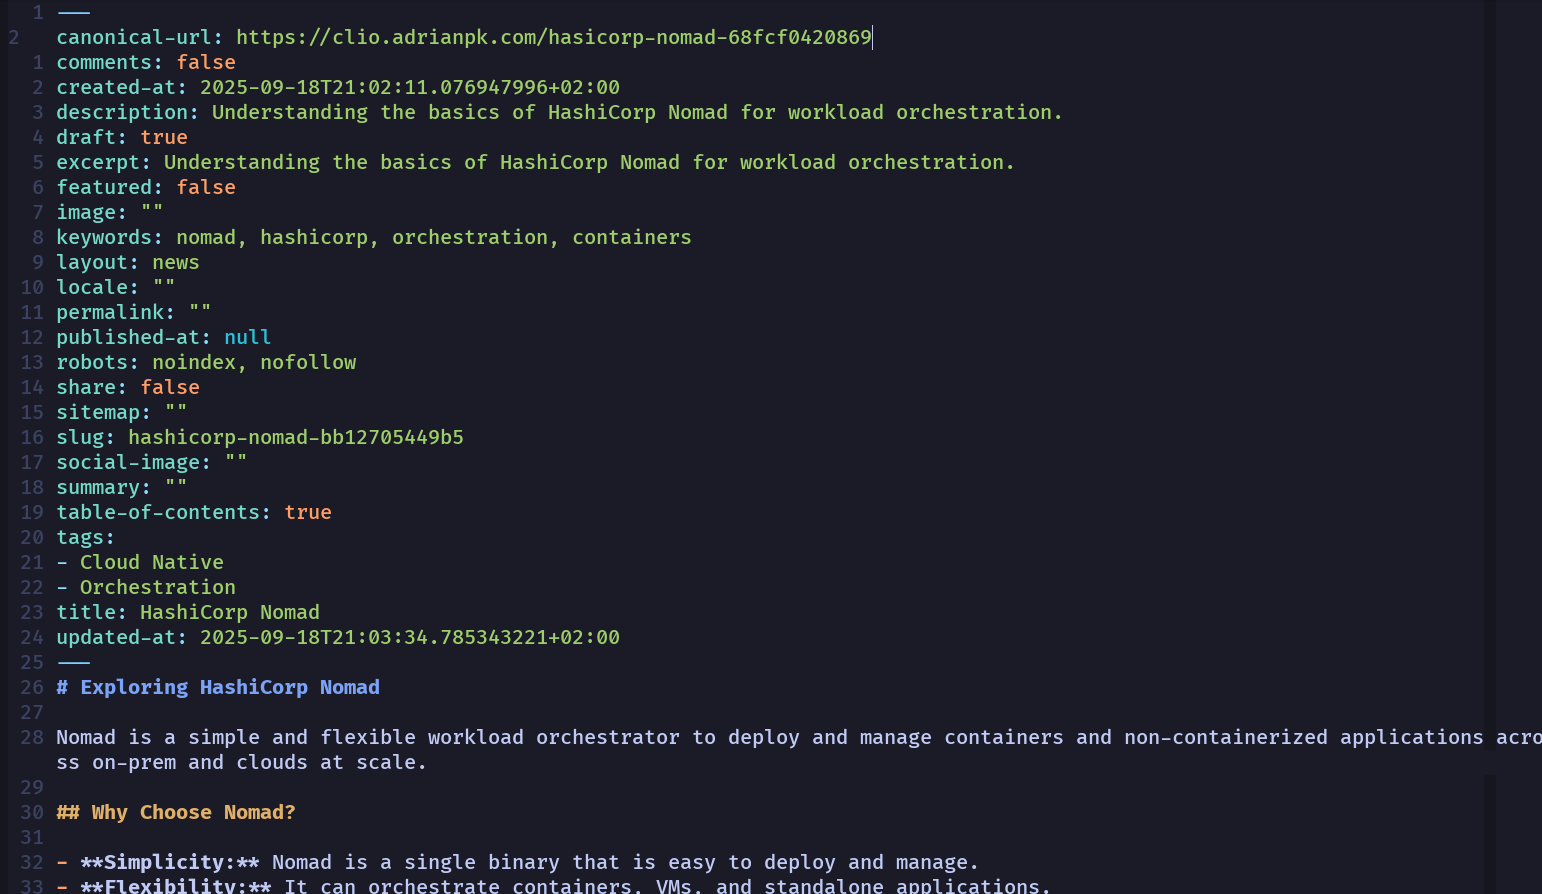
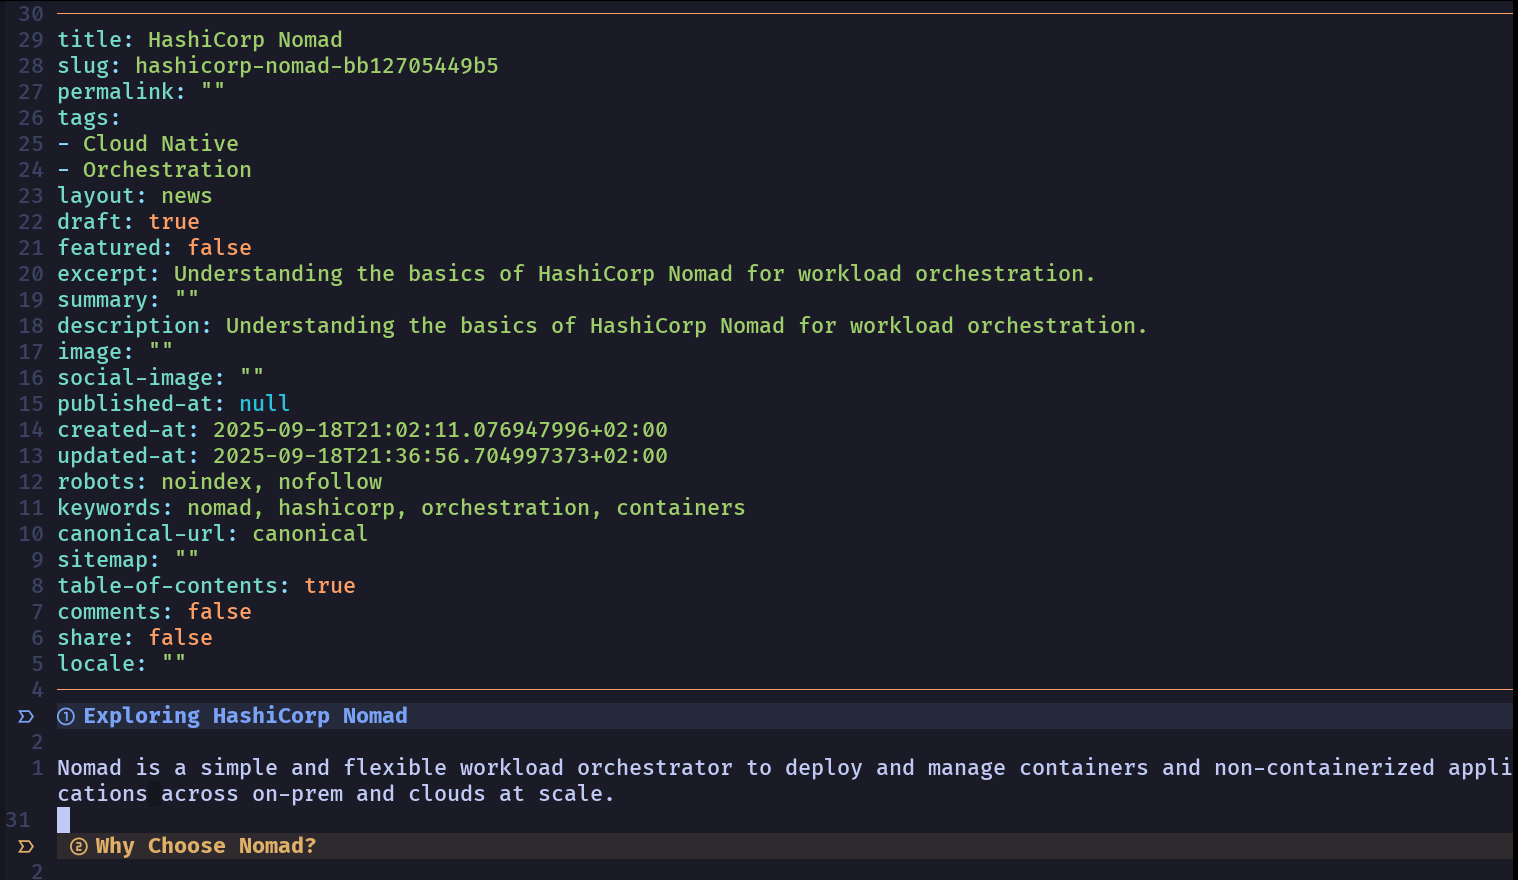
Order frontmatter fields

Changed region(s): [[0.0, 0.0, 1.0, 1.0], [0.2787, 0.5523, 0.4954, 0.583]]

diff --git a/internal/feat/ssg/generator.go b/internal/feat/ssg/generator.go
@@ -31,42 +31,12 @@ func (g *Generator) Generate(contents []Content) error {
 		fileName := content.Slug() + ".md"
 		filePath := filepath.Join(basePath, content.SectionPath, fileName)
 
-		// --- Frontmatter Generation ---
-		frontMatter := make(map[string]interface{})
+		// --- Frontmatter Generation (Ordered) ---
+		var frontMatter yaml.MapSlice
 
-		// Core Identity & Content
-		frontMatter["slug"] = content.Slug()
-		frontMatter["permalink"] = "" // TODO: Construct full permalink
-		frontMatter["excerpt"] = content.Meta.Description // Using description as a stand-in
-		frontMatter["summary"] = "" // TODO: Add a summary field if needed
-
-		// Presentation & Layout
-		frontMatter["image"] = "" // TODO: Add image field to a model
-		frontMatter["social-image"] = "" // TODO: Add social-image field
-		frontMatter["layout"] = content.SectionName // Assuming layout is related to section
-		frontMatter["table-of-contents"] = content.Meta.TableOfContents
-
-		// SEO & Discovery
-		frontMatter["title"] = content.Heading
-		frontMatter["description"] = content.Meta.Description
-		frontMatter["keywords"] = content.Meta.Keywords
-		frontMatter["robots"] = content.Meta.Robots
-		frontMatter["canonical-url"] = content.Meta.CanonicalURL
-		frontMatter["sitemap"] = content.Meta.Sitemap
-
-		// Features & Engagement
-		frontMatter["featured"] = content.Featured
-		frontMatter["share"] = content.Meta.Share
-		frontMatter["comments"] = content.Meta.Comments
-
-		// Localization
-		frontMatter["locale"] = "" // TODO: Add locale field
-
-		// Timestamps & Status
-		frontMatter["draft"] = content.Draft
-		frontMatter["published-at"] = content.PublishedAt
-		frontMatter["created-at"] = content.CreatedAt
-		frontMatter["updated-at"] = content.UpdatedAt
+		frontMatter = append(frontMatter, yaml.MapItem{Key: "title", Value: content.Heading})
+		frontMatter = append(frontMatter, yaml.MapItem{Key: "slug", Value: content.Slug()})
+		frontMatter = append(frontMatter, yaml.MapItem{Key: "permalink", Value: ""}) // TODO: Construct full permalink
 
 		// Taxonomy
 		var tags []string
@@ -74,8 +44,42 @@ func (g *Generator) Generate(contents []Content) error {
 			tags = append(tags, t.Name)
 		}
 		if len(tags) > 0 {
-			frontMatter["tags"] = tags
+			frontMatter = append(frontMatter, yaml.MapItem{Key: "tags", Value: tags})
 		}
+		frontMatter = append(frontMatter, yaml.MapItem{Key: "layout", Value: content.SectionName}) // Assuming layout is related to section
+
+		// Status
+		frontMatter = append(frontMatter, yaml.MapItem{Key: "draft", Value: content.Draft})
+		frontMatter = append(frontMatter, yaml.MapItem{Key: "featured", Value: content.Featured})
+
+		// Content
+		frontMatter = append(frontMatter, yaml.MapItem{Key: "excerpt", Value: content.Meta.Description}) // Using description as a stand-in
+		frontMatter = append(frontMatter, yaml.MapItem{Key: "summary", Value: ""})                       // TODO: Add a summary field if needed
+		frontMatter = append(frontMatter, yaml.MapItem{Key: "description", Value: content.Meta.Description})
+
+		// Media
+		frontMatter = append(frontMatter, yaml.MapItem{Key: "image", Value: ""})        // TODO: Add image field to a model
+		frontMatter = append(frontMatter, yaml.MapItem{Key: "social-image", Value: ""}) // TODO: Add social-image field
+
+		// Timestamps
+		frontMatter = append(frontMatter, yaml.MapItem{Key: "published-at", Value: content.PublishedAt})
+		frontMatter = append(frontMatter, yaml.MapItem{Key: "created-at", Value: content.CreatedAt})
+		frontMatter = append(frontMatter, yaml.MapItem{Key: "updated-at", Value: content.UpdatedAt})
+
+		// SEO
+		frontMatter = append(frontMatter, yaml.MapItem{Key: "robots", Value: content.Meta.Robots})
+		frontMatter = append(frontMatter, yaml.MapItem{Key: "keywords", Value: content.Meta.Keywords})
+		frontMatter = append(frontMatter, yaml.MapItem{Key: "canonical-url", Value: content.Meta.CanonicalURL})
+		frontMatter = append(frontMatter, yaml.MapItem{Key: "sitemap", Value: content.Meta.Sitemap})
+
+		// Page Config
+		frontMatter = append(frontMatter, yaml.MapItem{Key: "table-of-contents", Value: content.Meta.TableOfContents})
+		frontMatter = append(frontMatter, yaml.MapItem{Key: "comments", Value: content.Meta.Comments})
+		frontMatter = append(frontMatter, yaml.MapItem{Key: "share", Value: content.Meta.Share})
+
+		// Localization
+		frontMatter = append(frontMatter, yaml.MapItem{Key: "locale", Value: ""}) // TODO: Add locale field
+
 		// --- End of Frontmatter ---
 
 		yamlBytes, err := yaml.Marshal(frontMatter)
